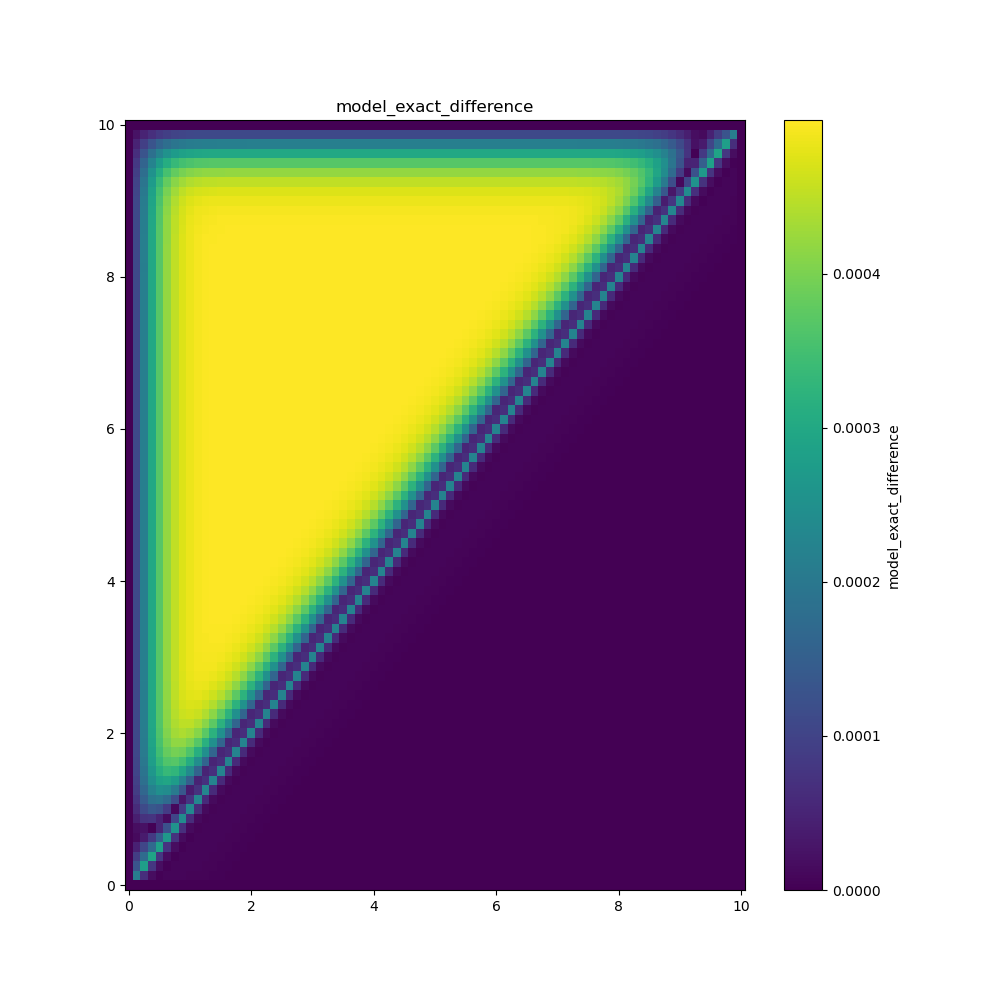
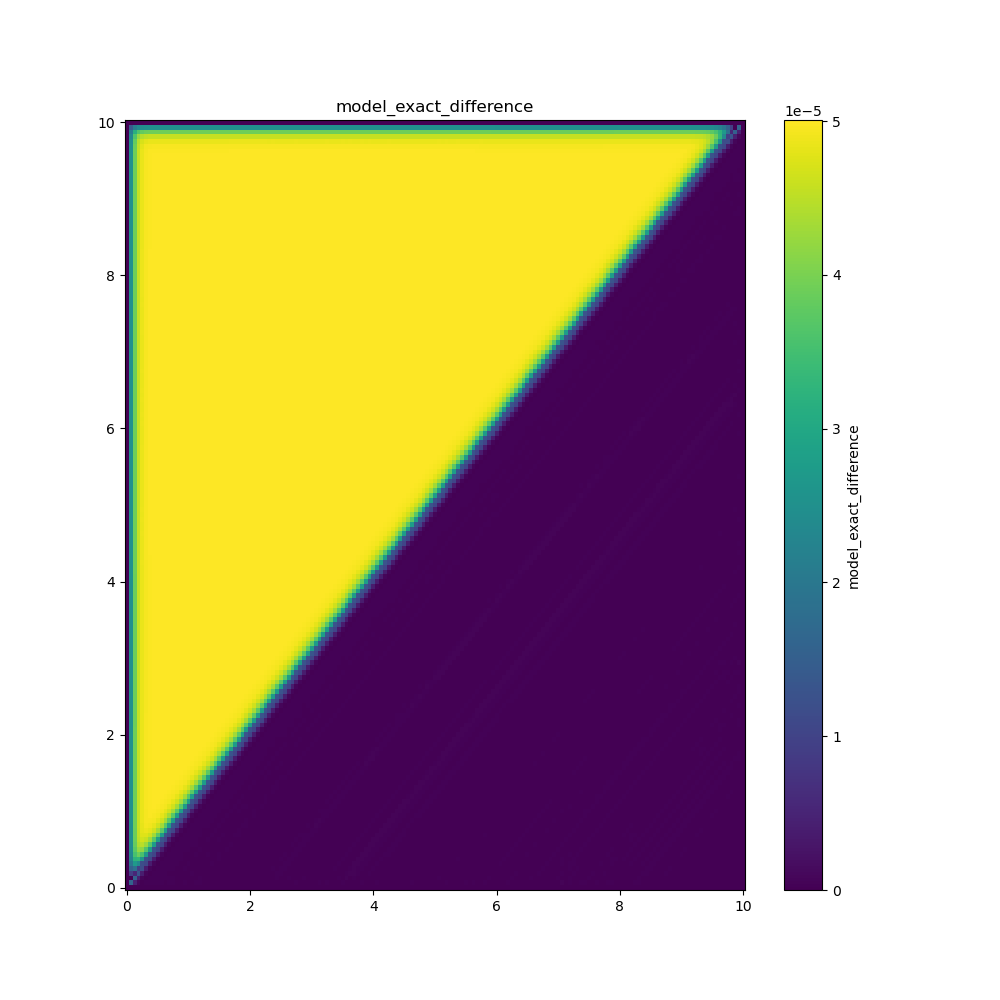
ITS WORKING

diff --git a/tests/richards_multiple.py b/tests/richards_multiple.py
@@ -8,9 +8,9 @@ torch.set_default_dtype(torch.float64)
 
 ### Variables that can be changed ###
 nx_array = torch.tensor([10, 20, 40, 80, 160])# numer of elements in each edge of mesh
-dt_array = torch.tensor([0.001, 0.0005, 0.0002, 0.0001])            # timestep array
+dt_array = torch.tensor([0.0001, 0.00005, 0.00002, 0.00001])            # timestep array
 length = 10                                    # domain is [0, 10] x [0, 10]
-T = 0.001                                      # total length of time
+T = 0.0001                                      # total length of time
 PC = False                                      # whether to use predictor corrector method
 
 ### Set up gpu specs ###
@@ -88,6 +88,7 @@ with torch.no_grad():
 plot_tensor(x_padded, y_padded, u_exact(x_padded,y_padded, T)[0,0,:,:].cpu().numpy() - u_exact(x_padded,y_padded, 0)[0,0,:,:].cpu().numpy(), "Exact_solution_error, T - t")
 
 dx = 1/(nx_array.cpu().numpy())
+L2_error = np.array(L2_error)
 
 ### convergence plot ###
 print(f"L2_error is {np.array(L2_error_dx)}")
@@ -107,21 +108,21 @@ if PC == True:
 else:
     plt.savefig(f"../plots/mesh_error")
 
-'''
+
 fig, ax = plt.subplots(1,1, figsize=(6,6))
-plt.loglog(dt_array.cpu().numpy(), L2_error[:][0], linestyle="dashed", marker="o", label=rf"$\Delta x = {dx[0]}$")
-plt.loglog(dt_array.cpu().numpy(), L2_error[:][1], linestyle="dashed", marker="x", label=rf"$\Delta x = {dx[1]}$")
-plt.loglog(dt_array.cpu().numpy(), L2_error[:][2], linestyle="dashed", marker="s", label=rf"$\Delta x = {dx[2]}$")
-plt.loglog(dt_array.cpu().numpy(), L2_error[:][3], linestyle="dashed", marker=".", label=rf"$\Delta x = {dx[3]}$")
-plt.loglog(dt_array.cpu().numpy(), L2_error[:][4], linestyle="dashed", marker=">", label=rf"$\Delta x = {dx[4]}$")
-plt.plot(dx, 0.001 * dt, color="black", linestyle="dotted", label=r"Slope $= -1$" )
+plt.loglog(dt_array.cpu().numpy(), L2_error[:,0], linestyle="dashed", marker="o", label=rf"$\Delta x = {dx[0]}$")
+plt.loglog(dt_array.cpu().numpy(), L2_error[:,1], linestyle="dashed", marker="x", label=rf"$\Delta x = {dx[1]}$")
+plt.loglog(dt_array.cpu().numpy(), L2_error[:,2], linestyle="dashed", marker="s", label=rf"$\Delta x = {dx[2]}$")
+plt.loglog(dt_array.cpu().numpy(), L2_error[:,3], linestyle="dashed", marker=".", label=rf"$\Delta x = {dx[3]}$")
+plt.loglog(dt_array.cpu().numpy(), L2_error[:,4], linestyle="dashed", marker=">", label=rf"$\Delta x = {dx[4]}$")
+plt.plot(dt, 0.001 * dt, color="black", linestyle="dotted", label=r"Slope $= -1$" )
 ax.set_xlabel(r"$\Delta t$", fontsize=12)
 ax.set_ylabel(r"$L^2$ error", fontsize=12)
 plt.title(f"Error against time-step, total time T = {T}", fontsize=16)
 plt.legend(fontsize=12)
 plt.tight_layout()
 plt.savefig(f"../plots/time_error")
-'''
+
 #data = {"nx": nx_array.cpu().numpy(), "L2 error": np.array(L2_error_dx), "N iterations": np.array(niterations)}
 #df = pd.DataFrame(data=data)
 

diff --git a/tests/richards_exp.py b/tests/richards_exp.py
@@ -36,7 +36,7 @@ def Kappa1(s):
     return torch.ones_like(s)
 
 def theta(s):
-    return torch.ones_like(s)
+    return s
 
 
 def u_exact(x, y, t):
@@ -122,9 +122,12 @@ with torch.no_grad():
 plot_tensor(x_padded, y_padded, u_exact(x_padded,y_padded, T)[0,0,:,:].cpu().numpy() - u_exact(x_padded,y_padded, 0)[0,0,:,:].cpu().numpy(), "Exact_solution_error, T - t")
 
 dx = 1/(nx_array.cpu().numpy())
+L2_error = np.array(L2_error)
 
 ### convergence plot ###
 print(f"L2_error is {np.array(L2_error_dx)}")
+
+
 fig, ax = plt.subplots(1,1, figsize=(6,6))
 plt.loglog(dx, L2_error[0], linestyle="dashed", marker="o", label=rf"$\Delta t = {dt_array[0]:.4f}$")
 plt.loglog(dx, L2_error[1], linestyle="dashed", marker="x", label=rf"$\Delta t = {dt_array[1]:.4f}$")
@@ -142,12 +145,12 @@ else:
     plt.savefig(f"../plots/mesh_error_nokappa")
 
 fig, ax = plt.subplots(1,1, figsize=(6,6))
-plt.loglog(dt_array.cpu().numpy(), L2_error[:][0], linestyle="dashed", marker="o", label=rf"$\Delta x = {dx[0]}$")
-plt.loglog(dt_array.cpu().numpy(), L2_error[:][1], linestyle="dashed", marker="x", label=rf"$\Delta x = {dx[1]}$")
-plt.loglog(dt_array.cpu().numpy(), L2_error[:][2], linestyle="dashed", marker="s", label=rf"$\Delta x = {dx[2]}$")
-plt.loglog(dt_array.cpu().numpy(), L2_error[:][3], linestyle="dashed", marker=".", label=rf"$\Delta x = {dx[3]}$")
-plt.loglog(dt_array.cpu().numpy(), L2_error[:][4], linestyle="dashed", marker=">", label=rf"$\Delta x = {dx[4]}$")
-plt.plot(dx, 0.001 * dt, color="black", linestyle="dotted", label=r"Slope $= -1$" )
+plt.loglog(dt_array.cpu().numpy(), L2_error[:, 0], linestyle="dashed", marker="o", label=rf"$\Delta x = {dx[0]}$")
+plt.loglog(dt_array.cpu().numpy(), L2_error[:, 1], linestyle="dashed", marker="x", label=rf"$\Delta x = {dx[1]}$")
+plt.loglog(dt_array.cpu().numpy(), L2_error[:, 2], linestyle="dashed", marker="s", label=rf"$\Delta x = {dx[2]}$")
+plt.loglog(dt_array.cpu().numpy(), L2_error[:, 3], linestyle="dashed", marker=".", label=rf"$\Delta x = {dx[3]}$")
+plt.loglog(dt_array.cpu().numpy(), L2_error[:, 4], linestyle="dashed", marker=">", label=rf"$\Delta x = {dx[4]}$")
+plt.plot(dt, 0.001 * dt, color="black", linestyle="dotted", label=r"Slope $= -1$" )
 ax.set_xlabel(r"$\Delta t$", fontsize=12)
 ax.set_ylabel(r"$L^2$ error", fontsize=12)
 plt.title(f"Error against time-step, total time T = {T}", fontsize=16)
